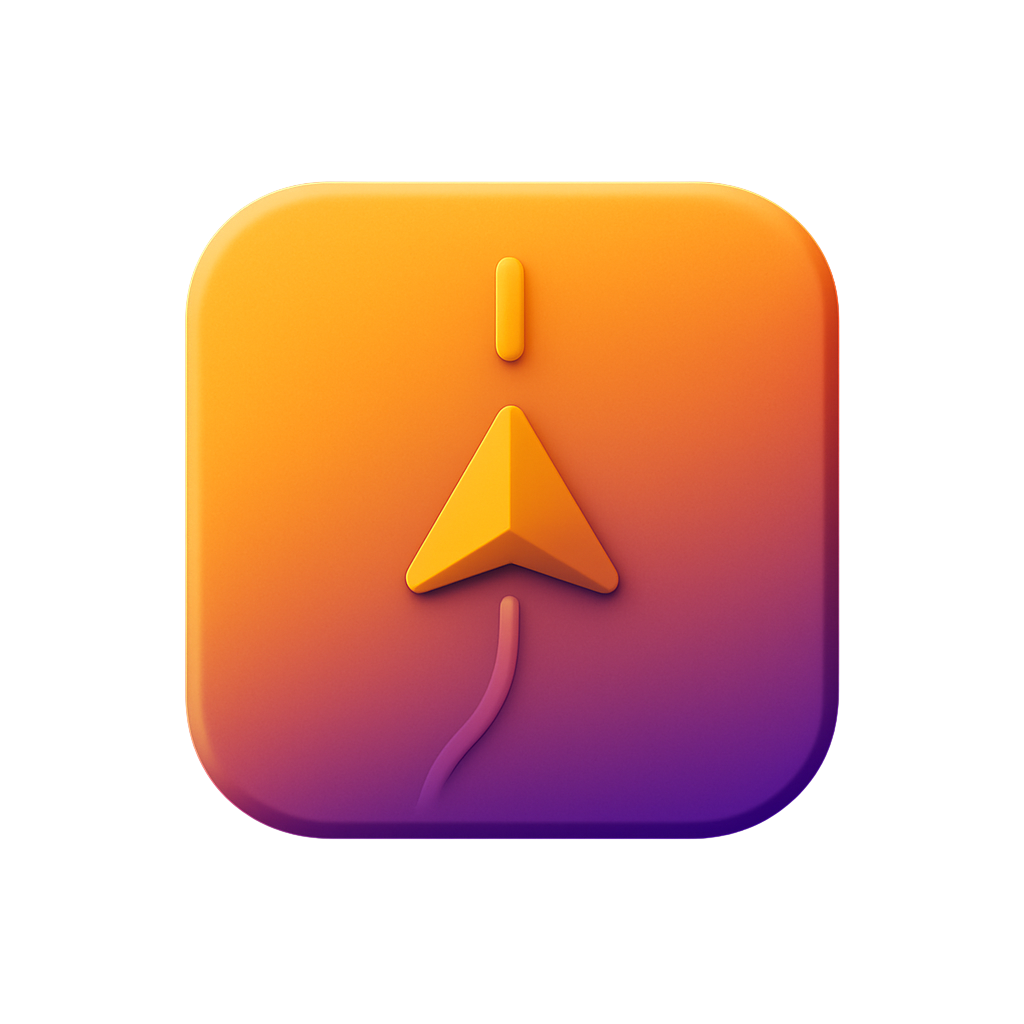
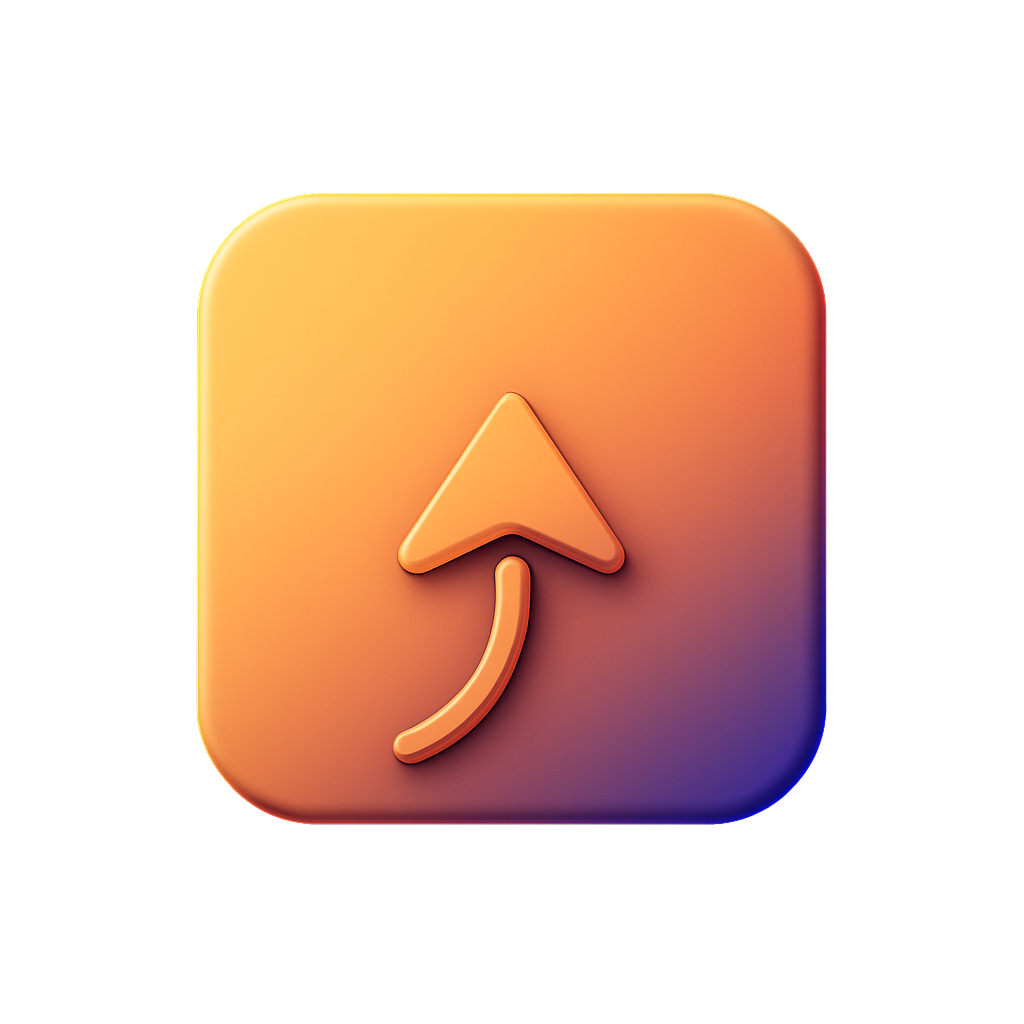
Fix texts: update onboarding welcome text, rename Comon to Автоследование, update description and image

diff --git a/src/shared/ui/comon-modal.tsx b/src/shared/ui/comon-modal.tsx
@@ -17,8 +17,8 @@ export const ComonModal: React.FC<ComonModalProps> = ({ isOpen, onClose }) => {
         <div className="flex justify-center pt-[48px]">
           <div className="w-[150px] h-[150px] relative flex-shrink-0">
             <img
-              src="/assets/products/comon.png"
-              alt="Comon"
+              src="/assets/products/comon.png?v=2"
+              alt="Автоследование"
               className="w-full h-full object-contain rounded-lg"
             />
           </div>
@@ -27,7 +27,7 @@ export const ComonModal: React.FC<ComonModalProps> = ({ isOpen, onClose }) => {
         {/* Title - отступ от изображения 9px */}
         <div className="flex justify-center mt-[9px]">
           <h2 className="text-[28px] font-medium text-white text-center leading-[32px] tracking-[-0.504px] font-inter">
-            Comon
+            Автоследование
           </h2>
         </div>
 
@@ -35,7 +35,7 @@ export const ComonModal: React.FC<ComonModalProps> = ({ isOpen, onClose }) => {
         <div className="mt-[40px]">
           <div className="bg-[#2f2f37] rounded-[5px] p-[12px] w-full">
             <p className="text-[17px] font-medium text-white leading-[24px] tracking-[-0.17px] font-inter">
-              Автоследование – это уникальный сервис, позволяющий автоматически в реальном времени повторять сделки успешных трейдеров
+              Это уникальный сервис, позволяющий автоматически в реальном времени повторять сделки успешных трейдеров
             </p>
           </div>
         </div>

diff --git a/src/widgets/products-page/ui/products-page.tsx b/src/widgets/products-page/ui/products-page.tsx
@@ -70,7 +70,7 @@ export const ProductsPage: React.FC = () => {
       onClick: () => handleOpenModal('internationalMarkets')
     },
     { 
-      title: 'Comon', 
+      title: 'Автоследование', 
       onClick: () => handleOpenModal('comon')
     },
     { 

diff --git a/src/entities/user/ui/onboarding.tsx b/src/entities/user/ui/onboarding.tsx
@@ -286,7 +286,7 @@ export const Onboarding: React.FC = () => {
             >
             TradeId
           </span>{' '}
-          поможет найти:
+          поможет:
         </p>
             </div>
 
